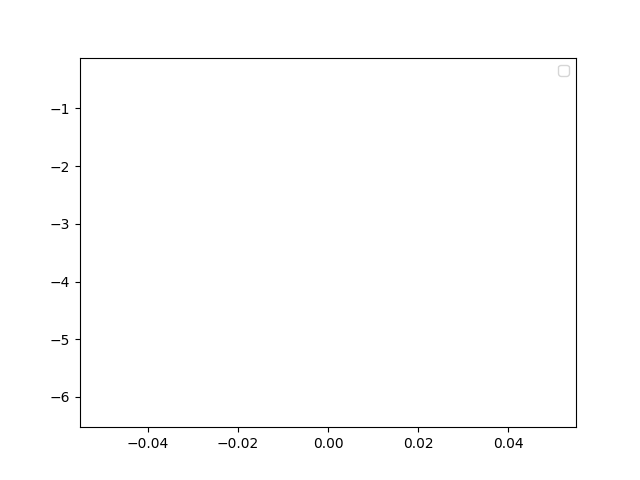
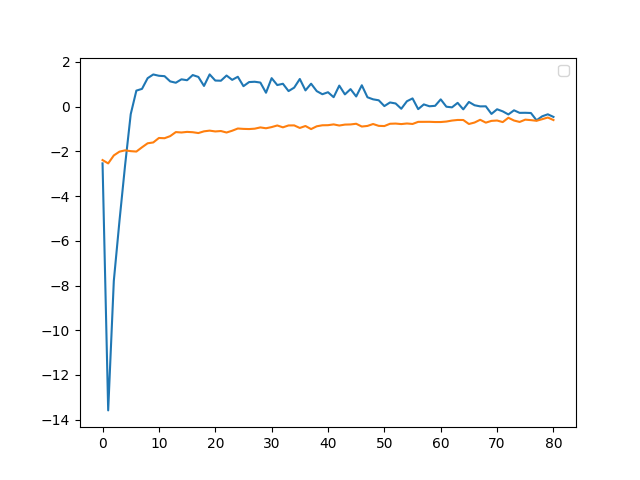
[model] Update the Wasstein DCGAN model and train_conv.py file

diff --git a/reconstruct/GAN.py b/reconstruct/GAN.py
@@ -1,7 +1,8 @@
 import tensorflow as tf
-from tensorflow.keras.models import Sequential
+from tensorflow.keras.models import Sequential, Model
 from tensorflow.keras.layers import Input, Dense, Activation, BatchNormalization, Reshape, UpSampling2D, Conv2D, MaxPooling2D
-from tensorflow.keras.layers import Flatten
+from tensorflow.keras.layers import Flatten, Conv2DTranspose, LeakyReLU
+from tensorflow.keras.initializers import RandomNormal
 class MGAN:
     def __init__(self,
                  model_shape_G=None,
@@ -93,106 +94,140 @@ class MGAN:
 
 class DCMGAN:
     def __init__(self,
-                 input_shape_G=None,
-                 input_shape_D=None,
                  learning_rate_G=None,
                  learning_rate_D=None,
                  batch_size=None,
-                 X_train=None,
-                 y_train=None,
-                 X_test=None,
-                 y_test=None):
-        if input_shape_G is None:
-            raise ValueError("[Error] input shape of G is None!")
-        if input_shape_D is None:
-            raise ValueError("[Error] input shape of D is None!")
-        if learning_rate_G is None:
-            raise ValueError("[Error] learning_rate of G is None!")
-        if learning_rate_D is None:
-            raise ValueError("[Error] learning_rate of D is None!")
-        if X_train is None:
-            raise ValueError("[Error] X_train is None!")
-        if y_train is None:
-            raise ValueError("[Error] y_train is None!")
-        if X_test is None:
-            raise ValueError("[Error] X_test is None!")
-        if y_test is None:
-            raise ValueError("[Error] y_test is None!")
-        if batch_size is None:
-            raise ValueError("[Error] batch_size is None!")
+                 nc = None,
+                 nz = None,
+                 ngf = None,
+                 ndf = None,
+                 n_extra_layers = None,
+                 Diters = None,
+                 image_size = None):
 
-        self.input_shape_G = input_shape_G
-        self.input_shape_D = input_shape_D
         self.learning_rate_G = learning_rate_G
         self.learning_rate_D = learning_rate_D
         self.batch_size = batch_size
         self.optimizer_G = tf.train.AdamOptimizer(learning_rate_G, 0.5)
         self.optimizer_D = tf.train.AdamOptimizer(learning_rate_D, 0.5)
-        self.X_train = X_train
-        self.y_train = y_train
-        self.X_test = X_test
-        self.y_test = y_test
-        self.generator = self.build_generator(input_shape=self.input_shape_G)
-        self.discriminator = self.build_discriminator(input_shape=self.input_shape_D)
-
+        self.nc = nc
+        self.nz = nz
+        self.ngf = ngf
+        self.ndf = ndf
+        self.n_extra_layers = n_extra_layers
+        self.Diters = Diters
+        self.image_size = image_size
+        self.generator = self.build_generator(self.image_size, self.nz, self.nc, self.ngf, self.n_extra_layers)
+        self.discriminator = self.build_discriminator(self.image_size, self.nz, self.nc, self.ndf, self.n_extra_layers)
+        
         # 打印模型信息
         print("[INFO] Creating Model:\n \
-                model_shape_G is :{},\n \
-                model_shape_D is :{},\n \
                 learning_rate_G is : {}, \n \
                 learning_rate_D is : {}, \n \
-                batch_size is : {}, \n \
-                X_train's shape is : {}, \n \
-                y_train's shape is : {}, \n \
-                X_test's shape is : {}, \n \
-                y_test's shape is : {}".format(self.input_shape_G, self.input_shape_D, self.learning_rate_G, self.learning_rate_D, self.batch_size,  self.X_train.shape, self.y_train.shape, self.X_test.shape, self.y_test.shape))
+                batch_size is : {}".format(self.learning_rate_G, self.learning_rate_D, self.batch_size))
         
-    def build_generator(self, input_shape=None):
+    def build_generator(self, isize, nz, nc, ngf, n_extra_layers=0):
         print('[INFO] Constructing generator model...')
-        if input_shape is None:
-            raise ValueError("[ERROR] The input shape of generator is None!")
-        input = Input(shape=input_shape)
-        model = Sequential()
-        model.add(input)
-        model.add(Dense(1024))
-        model.add(Activation('relu'))
-        model.add(Dense(128*7*7))
-        model.add(BatchNormalization())
-        model.add(Activation('relu'))
-        model.add(Reshape((7, 7, 128), input_shape=(128*7*7,)))
-        model.add(UpSampling2D(size=(2, 2)))
-        model.add(Conv2D(64, (5, 5), padding='same'))
-        model.add(Activation('relu'))
-        model.add(UpSampling2D(size=(2, 2)))
-        model.add(Conv2D(1, (5, 5), padding='same'))
-        # model.add(Activation('relu'))
-        return model
+        print("generator:{}, {}, {}, {}, {}".format(isize, nz, nc, ngf, n_extra_layers))
+        conv_init = RandomNormal(0, 0.02)
+        gamma_init = RandomNormal(1., 0.02)
+        cngf= ngf//2
+        tisize = isize
+        while tisize > 5:
+            cngf = cngf * 2
+            assert tisize%2==0
+            tisize = tisize // 2
+        _ = inputs = Input(shape=(nz,))
+        _ = Reshape((1,1, nz))(_)
+        _ = Conv2DTranspose(filters=cngf, kernel_size=tisize, strides=1, use_bias=False,
+                            kernel_initializer = conv_init, 
+                            name = 'initial.{0}-{1}.convt'.format(nz, cngf))(_)
+        _ = BatchNormalization(gamma_initializer = gamma_init, momentum=0.9, axis=-1, epsilon=1.01e-5,
+                                name = 'initial.{0}.batchnorm'.format(cngf))(_, training=1)
+        _ = Activation("relu", name = 'initial.{0}.relu'.format(cngf))(_)
+        csize, cndf = tisize, cngf
+        
+
+        while csize < isize//2:
+            in_feat = cngf
+            out_feat = cngf//2
+            _ = Conv2DTranspose(filters=out_feat, kernel_size=4, strides=2, use_bias=False,
+                            kernel_initializer = conv_init, padding="same",
+                            name = 'pyramid.{0}-{1}.convt'.format(in_feat, out_feat)             
+                            ) (_)
+            _ = BatchNormalization(gamma_initializer = gamma_init, 
+                                    momentum=0.9, axis=-1, epsilon=1.01e-5,
+                                    name = 'pyramid.{0}.batchnorm'.format(out_feat))(_, training=1)
+            
+            _ = Activation("relu", name = 'pyramid.{0}.relu'.format(out_feat))(_)
+            csize, cngf = csize*2, cngf//2
+        _ = Conv2DTranspose(filters=nc, kernel_size=4, strides=2, use_bias=False,
+                            kernel_initializer = conv_init, padding="same",
+                            name = 'final.{0}-{1}.convt'.format(cngf, nc)
+                            )(_)
+        _ = Activation("tanh", name = 'final.{0}.tanh'.format(nc))(_)
+        outputs = Reshape((nc*isize*isize,))(_)
+        return Model(inputs=inputs, outputs=outputs)
 
 
-    def build_discriminator(self, input_shape=None):
+    def build_discriminator(self, isize, nz, nc, ndf, n_extra_layers=0):
+        print("discriminator:{}, {}, {}, {}, {}".format(isize, nz, nc, ndf, n_extra_layers))
+
         print('[INFO] Constructing discriminator model...')
-        print("[DEBUG] Input shape of discriminator is {}".format(input_shape))
+        conv_init = RandomNormal(0, 0.02)
+        gamma_init = RandomNormal(1., 0.02)
+        assert isize%2==0
+        _ = inputs = Input(shape=(1, nc*isize*isize))
+        _ = Reshape((isize, isize, nc))(_)
+        _ = Conv2D(filters=ndf, kernel_size=4, strides=2, use_bias=False,
+                            padding = "same",
+                            kernel_initializer = conv_init, 
+                            name = 'initial.conv.{0}-{1}'.format(nc, ndf)             
+                            ) (_)
+        _ = LeakyReLU(alpha=0.2, name = 'initial.relu.{0}'.format(ndf))(_)
+        csize, cndf = isize// 2, ndf
+        while csize > 5:
+            assert csize%2==0
+            in_feat = cndf
+            out_feat = cndf*2
+            _ = Conv2D(filters=out_feat, kernel_size=4, strides=2, use_bias=False,
+                            padding = "same",kernel_initializer = conv_init,
+                            name = 'pyramid.{0}-{1}.conv'.format(in_feat, out_feat)) (_)
+            if 0: # toggle batchnormalization
+                _ = BatchNormalization(name = 'pyramid.{0}.batchnorm'.format(out_feat),                                   
+                                    momentum=0.9, axis=-1, epsilon=1.01e-5,
+                                    gamma_initializer = gamma_init)(_, training=1)        
+            _ = LeakyReLU(alpha=0.2, name = 'pyramid.{0}.relu'.format(out_feat))(_)
+            csize, cndf = (csize+1)//2, cndf*2
+        _ = Conv2D(filters=1, kernel_size=csize, strides=1, use_bias=False,
+                            kernel_initializer = conv_init,name = 'final.{0}-{1}.conv'.format(cndf, 1)) (_)
+        outputs = Flatten()(_)
+        return Model(inputs=inputs, outputs=outputs)
 
-        if input_shape is None:
-            raise ValueError('[Error] The input shape of discriminator is None!')
-
-        input = Input(shape=input_shape)
 
 
 
-        model = Sequential()
-        model.add(input)
-        model.add(
-                Conv2D(64, (5, 5),
-                padding='same'))
-        model.add(Activation('relu'))
-        model.add(MaxPooling2D(pool_size=(2, 2)))
-        model.add(Conv2D(128, (5, 5)))
-        model.add(Activation('relu'))
-        model.add(MaxPooling2D(pool_size=(2, 2)))
-        model.add(Flatten())
-        model.add(Dense(1024))
-        model.add(Activation('relu'))
-        model.add(Dense(1))
-        model.add(Activation('relu'))
-        return model
+# nc = 3
+# nz = 100
+# ngf = 64
+# ndf = 64
+# n_extra_layers = 0
+# Diters = 5
+
+# image_size = 32
+# batch_size = 64
+# learning_rate_D = 1e-4
+# learning_rate_G = 1e-4
+
+# dcgan = DCMGAN(learning_rate_G=learning_rate_G,
+#                 learning_rate_D=learning_rate_D,
+#                 batch_size=batch_size,
+#                 nc = nc,
+#                 nz = nz,
+#                 ngf = ngf,
+#                 ndf = ndf,
+#                 n_extra_layers = n_extra_layers,
+#                 Diters = Diters,
+#                 image_size = image_size)
+# dcgan.discriminator.summary()
+# dcgan.generator.summary()

diff --git a/reconstruct/train_conv.py b/reconstruct/train_conv.py
@@ -1,5 +1,5 @@
 from GAN import DCMGAN
-from tensorflow.keras.datasets import mnist
+from tensorflow.keras.datasets import mnist, cifar10
 from utils import generate_GAN_inputs, plot_sample_images
 import tensorflow as tf
 import numpy as np
@@ -11,50 +11,62 @@ import os
 tf.enable_eager_execution()
 tf.executing_eagerly()
 
-(X_train, y_train), (X_test, y_test) = mnist.load_data()
+(X_train, y_train), (X_test, y_test) = cifar10.load_data()
 
+nc = 3
+nz = 100
+ngf = 64
+ndf = 64
+n_extra_layers = 0
+Diters = 5
 
-learning_rate_G = 1e-4
+image_size = 32
+batch_size = 64
 learning_rate_D = 1e-4
-batch_size = 128
+learning_rate_G = 1e-4
 
-mgan = DCMGAN(100, (28, 28, 1), learning_rate_G ,learning_rate_D, batch_size, X_train, y_train, X_test, y_test)
-
+dcgan = DCMGAN(learning_rate_G=learning_rate_G,
+                learning_rate_D=learning_rate_D,
+                batch_size=batch_size,
+                nc = nc,
+                nz = nz,
+                ngf = ngf,
+                ndf = ndf,
+                n_extra_layers = n_extra_layers,
+                Diters = Diters,
+                image_size = image_size)
 def normal_func(X, y):
-     X = X.reshape(-1, 28, 28, 1)
+     X = X.reshape(-1, 32*32*3)
      X = X.astype(np.float32) /255.0
      y = y.astype(np.float32) 
      return X, y
 
 dataset = generate_GAN_inputs(X_train, y_train, batch_size=128, epoch_num=100, normal_func=normal_func)
 
-def train_generator(x, y, z, eps, mgan):
+def train_generator(x, y, z, eps, dcgan):
 
     with tf.GradientTape(persistent=True) as t:
-        fake_x = mgan.generator(z)
-        loss_G = -tf.reduce_mean(mgan.discriminator(fake_x))
-        gradient_g = t.gradient(loss_G, mgan.generator.trainable_variables)
+        fake_x = dcgan.generator(z)
+        loss_G = -tf.reduce_mean(dcgan.discriminator(fake_x))
+        gradient_g = t.gradient(loss_G, dcgan.generator.trainable_variables)
 
-    mgan.optimizer_G.apply_gradients(zip(gradient_g, mgan.generator.trainable_variables))
+    dcgan.optimizer_G.apply_gradients(zip(gradient_g, dcgan.generator.trainable_variables))
 
     return fake_x[:100], loss_G
 
-def train_discriminator(x, y, z, eps, mgan):
+def train_discriminator(x, y, z, eps, dcgan):
     with tf.GradientTape(persistent=True) as t:
-        fake_x = mgan.generator(z)
-        fake_x_reshaped = tf.reshape(fake_x, (-1, 784))
-        x_reshaped = tf.reshape(x, (-1, 784))
-        x_inter = eps*x_reshaped + (1-eps)*fake_x_reshaped
-        x_inter_reshaped = tf.reshape(x_inter, (-1, 28, 28, 1))
-        temp_x = mgan.discriminator(x_inter_reshaped)
-        grad = t.gradient(temp_x, x_inter_reshaped)
+        fake_x = dcgan.generator(z)
+        x_inter = eps*x + (1-eps)*fake_x
+        temp_x = dcgan.discriminator(x_inter)
+        grad = t.gradient(temp_x, x_inter)
         grad_norm = tf.sqrt(tf.reduce_sum(grad**2, axis=1))
         grad_pen = 10* tf.reduce_mean(tf.nn.relu(grad_norm-1.))
 
-        loss_D = tf.reduce_mean(mgan.discriminator(fake_x)) - tf.reduce_mean(mgan.discriminator(x)) + grad_pen
-        gradient_d = t.gradient(loss_D, mgan.discriminator.trainable_variables)
+        loss_D = tf.reduce_mean(dcgan.discriminator(fake_x)) - tf.reduce_mean(dcgan.discriminator(x)) + grad_pen
+        gradient_d = t.gradient(loss_D, dcgan.discriminator.trainable_variables)
 
-    mgan.optimizer_D.apply_gradients(zip(gradient_d, mgan.discriminator.trainable_variables))
+    dcgan.optimizer_D.apply_gradients(zip(gradient_d, dcgan.discriminator.trainable_variables))
 
     return loss_D
 
@@ -65,11 +77,12 @@ chart_dir = '/Test/reconstruct/chart'
 D_losses = []
 G_losses = []
 
-for epoch in tqdm(range(epoch_num)):
+for epoch in tqdm(range(epoch_num+1)):
     for((z, y), (x, eps)) in dataset:
-        fake_x, loss_G= train_generator(x, y, z, eps, mgan)
+        fake_x, loss_G= train_generator(x, y, z, eps, dcgan)
+        
         for i in range(5):
-            loss_D= train_discriminator(x, y, z, eps, mgan)
+            loss_D= train_discriminator(x, y, z, eps, dcgan)
 
         print("[INFO] epoch: {}, G_loss : {}, D_loss: {}".format(epoch, loss_G, loss_D))
 
@@ -78,7 +91,8 @@ for epoch in tqdm(range(epoch_num)):
     D_losses.append(loss_D)
 
     if epoch % 10 == 0:
-        plot_sample_images(fake_x, epoch=epoch, tag='Tune', size=(-1, 28, 28), dir=pic_dir)
+        print(fake_x)
+        plot_sample_images(fake_x, epoch=epoch, tag='Tune', size=(-1, 32, 32, 3), dir=pic_dir)
 
         plt.plot(np.arange(epoch+1), G_losses)
         plt.plot(np.arange(epoch+1), D_losses)

diff --git a/reconstruct/utils.py b/reconstruct/utils.py
@@ -34,7 +34,7 @@ def plot_sample_images(sample_X=None, epoch=None, tag=None, size=None, dir=None)
     fig, axes = plt.subplots(10, 10, figsize=(50, 50))
     for i in range(10):
         for j in range(10):
-            axes[i][j].imshow(sample_X[i*10+j], cmap='gray')
+            axes[i][j].imshow(sample_X[i*10+j])
             axes[i][j].axis('off')
     plt.tight_layout()
 
